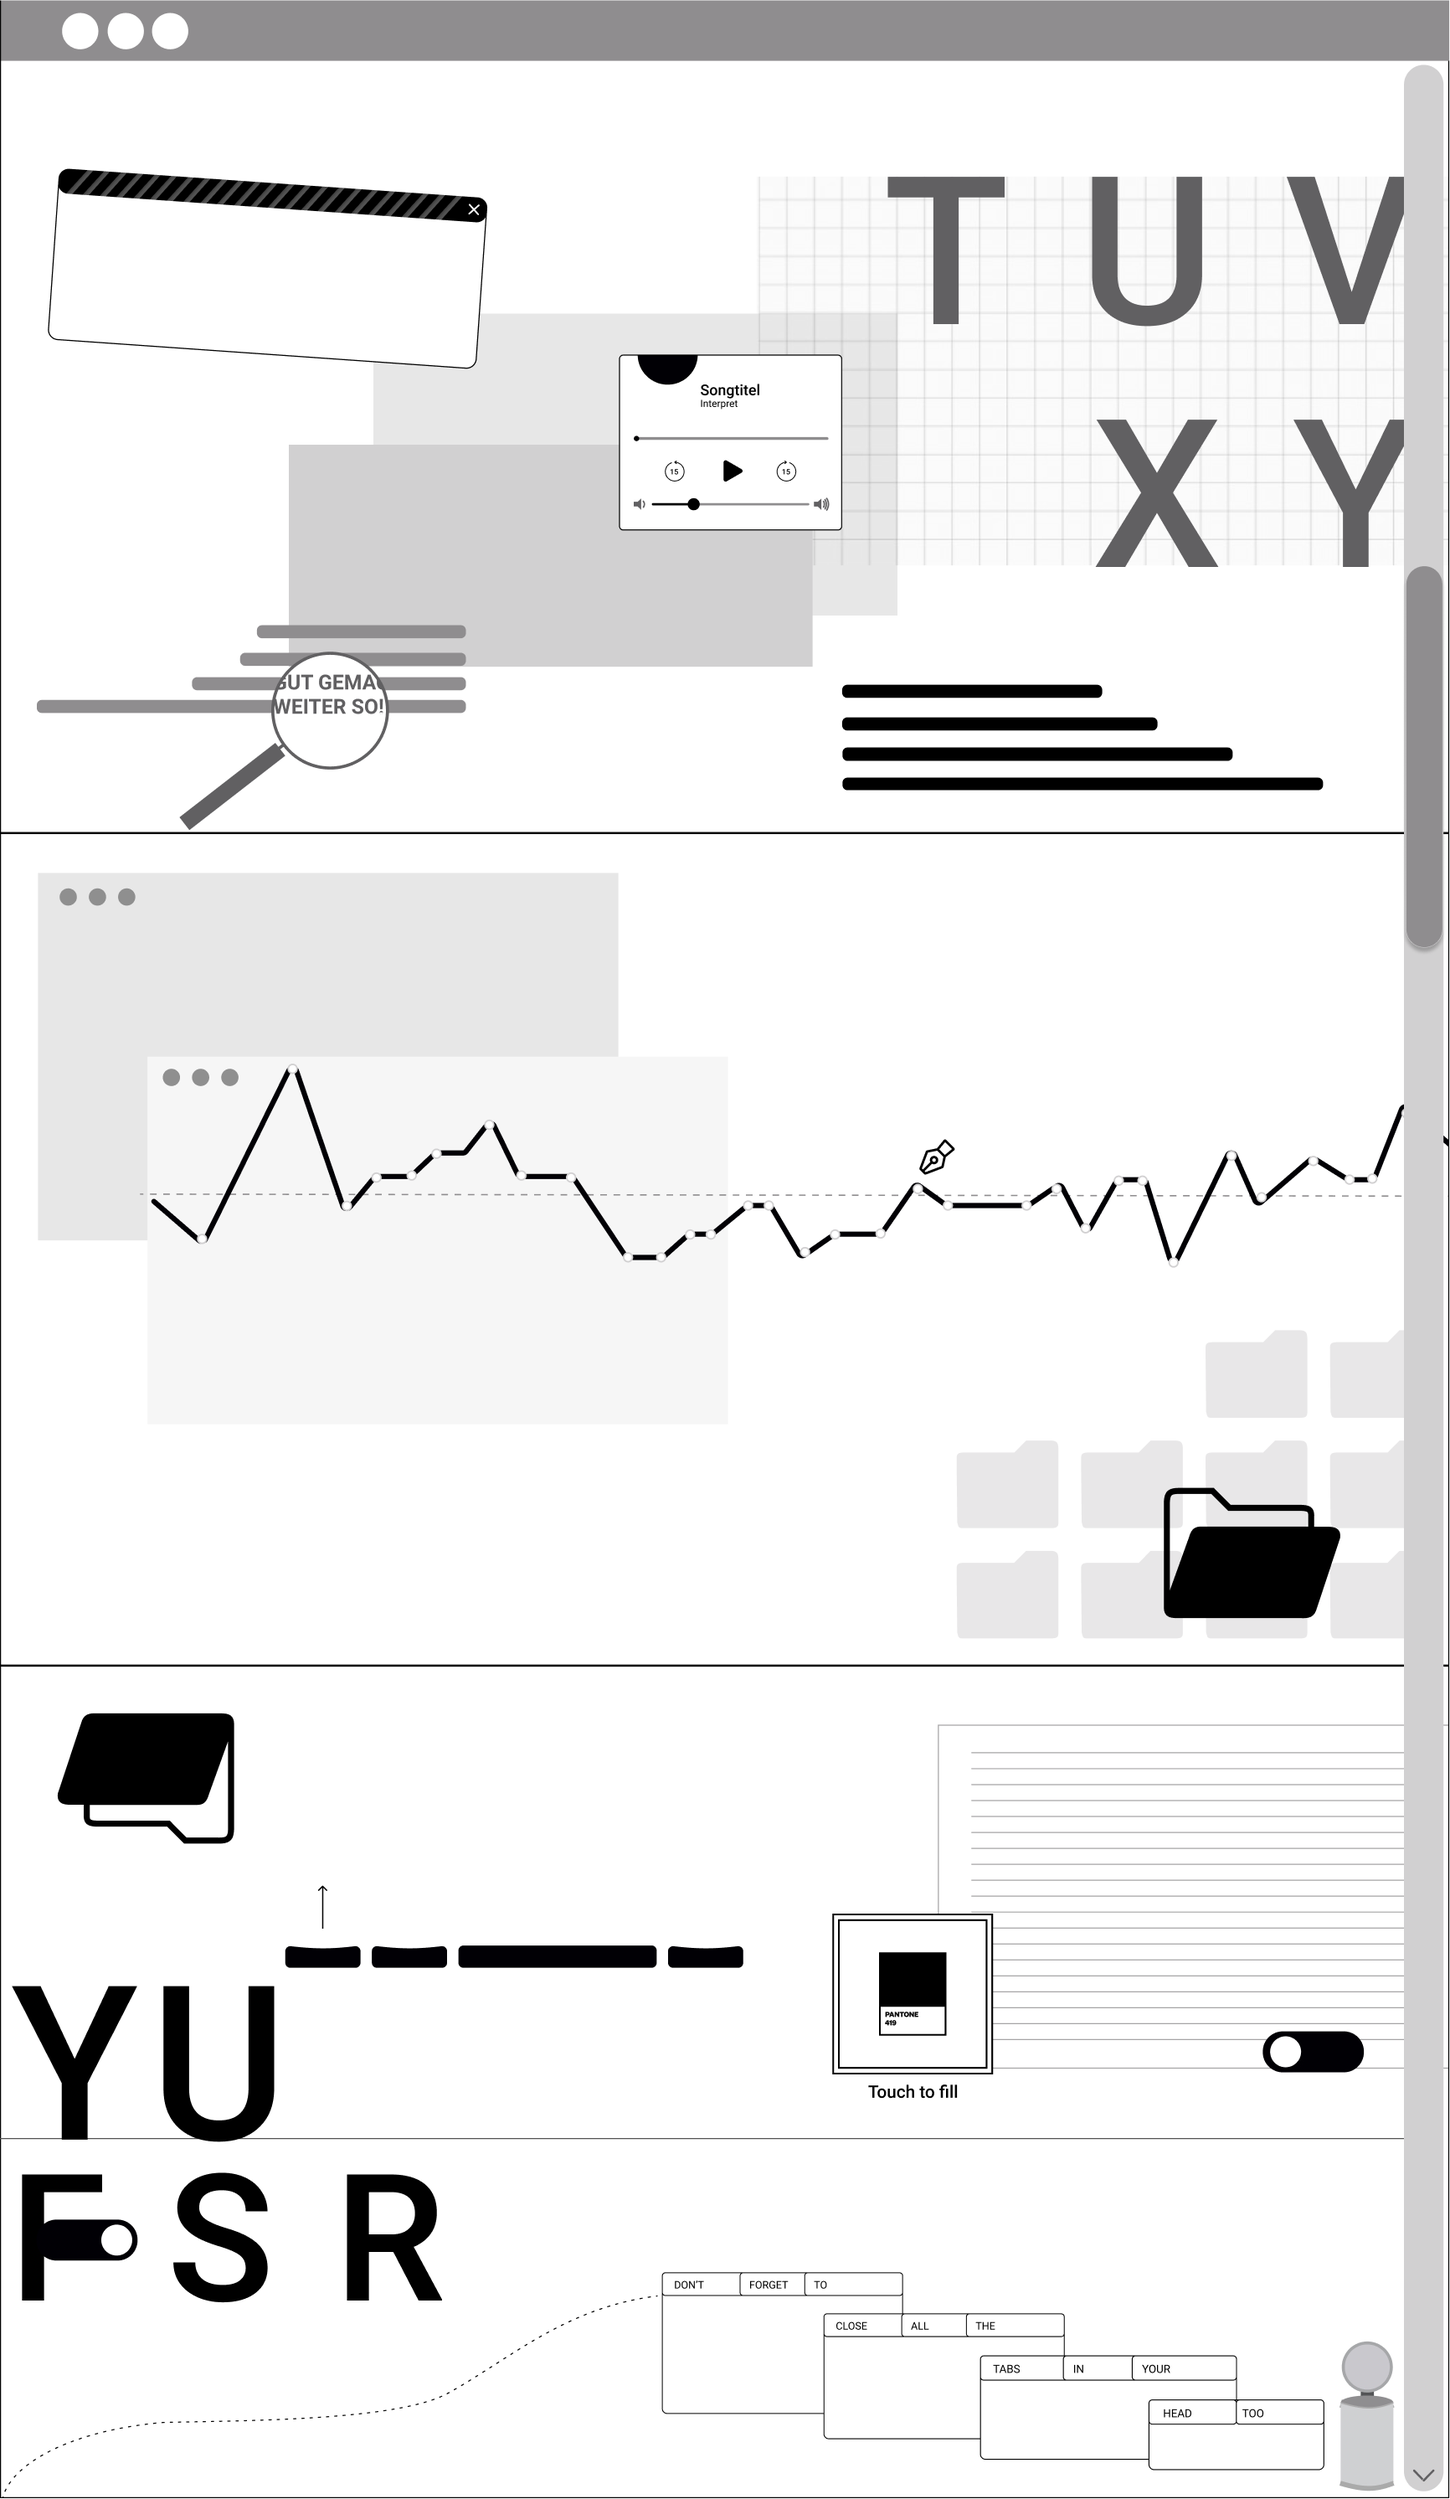
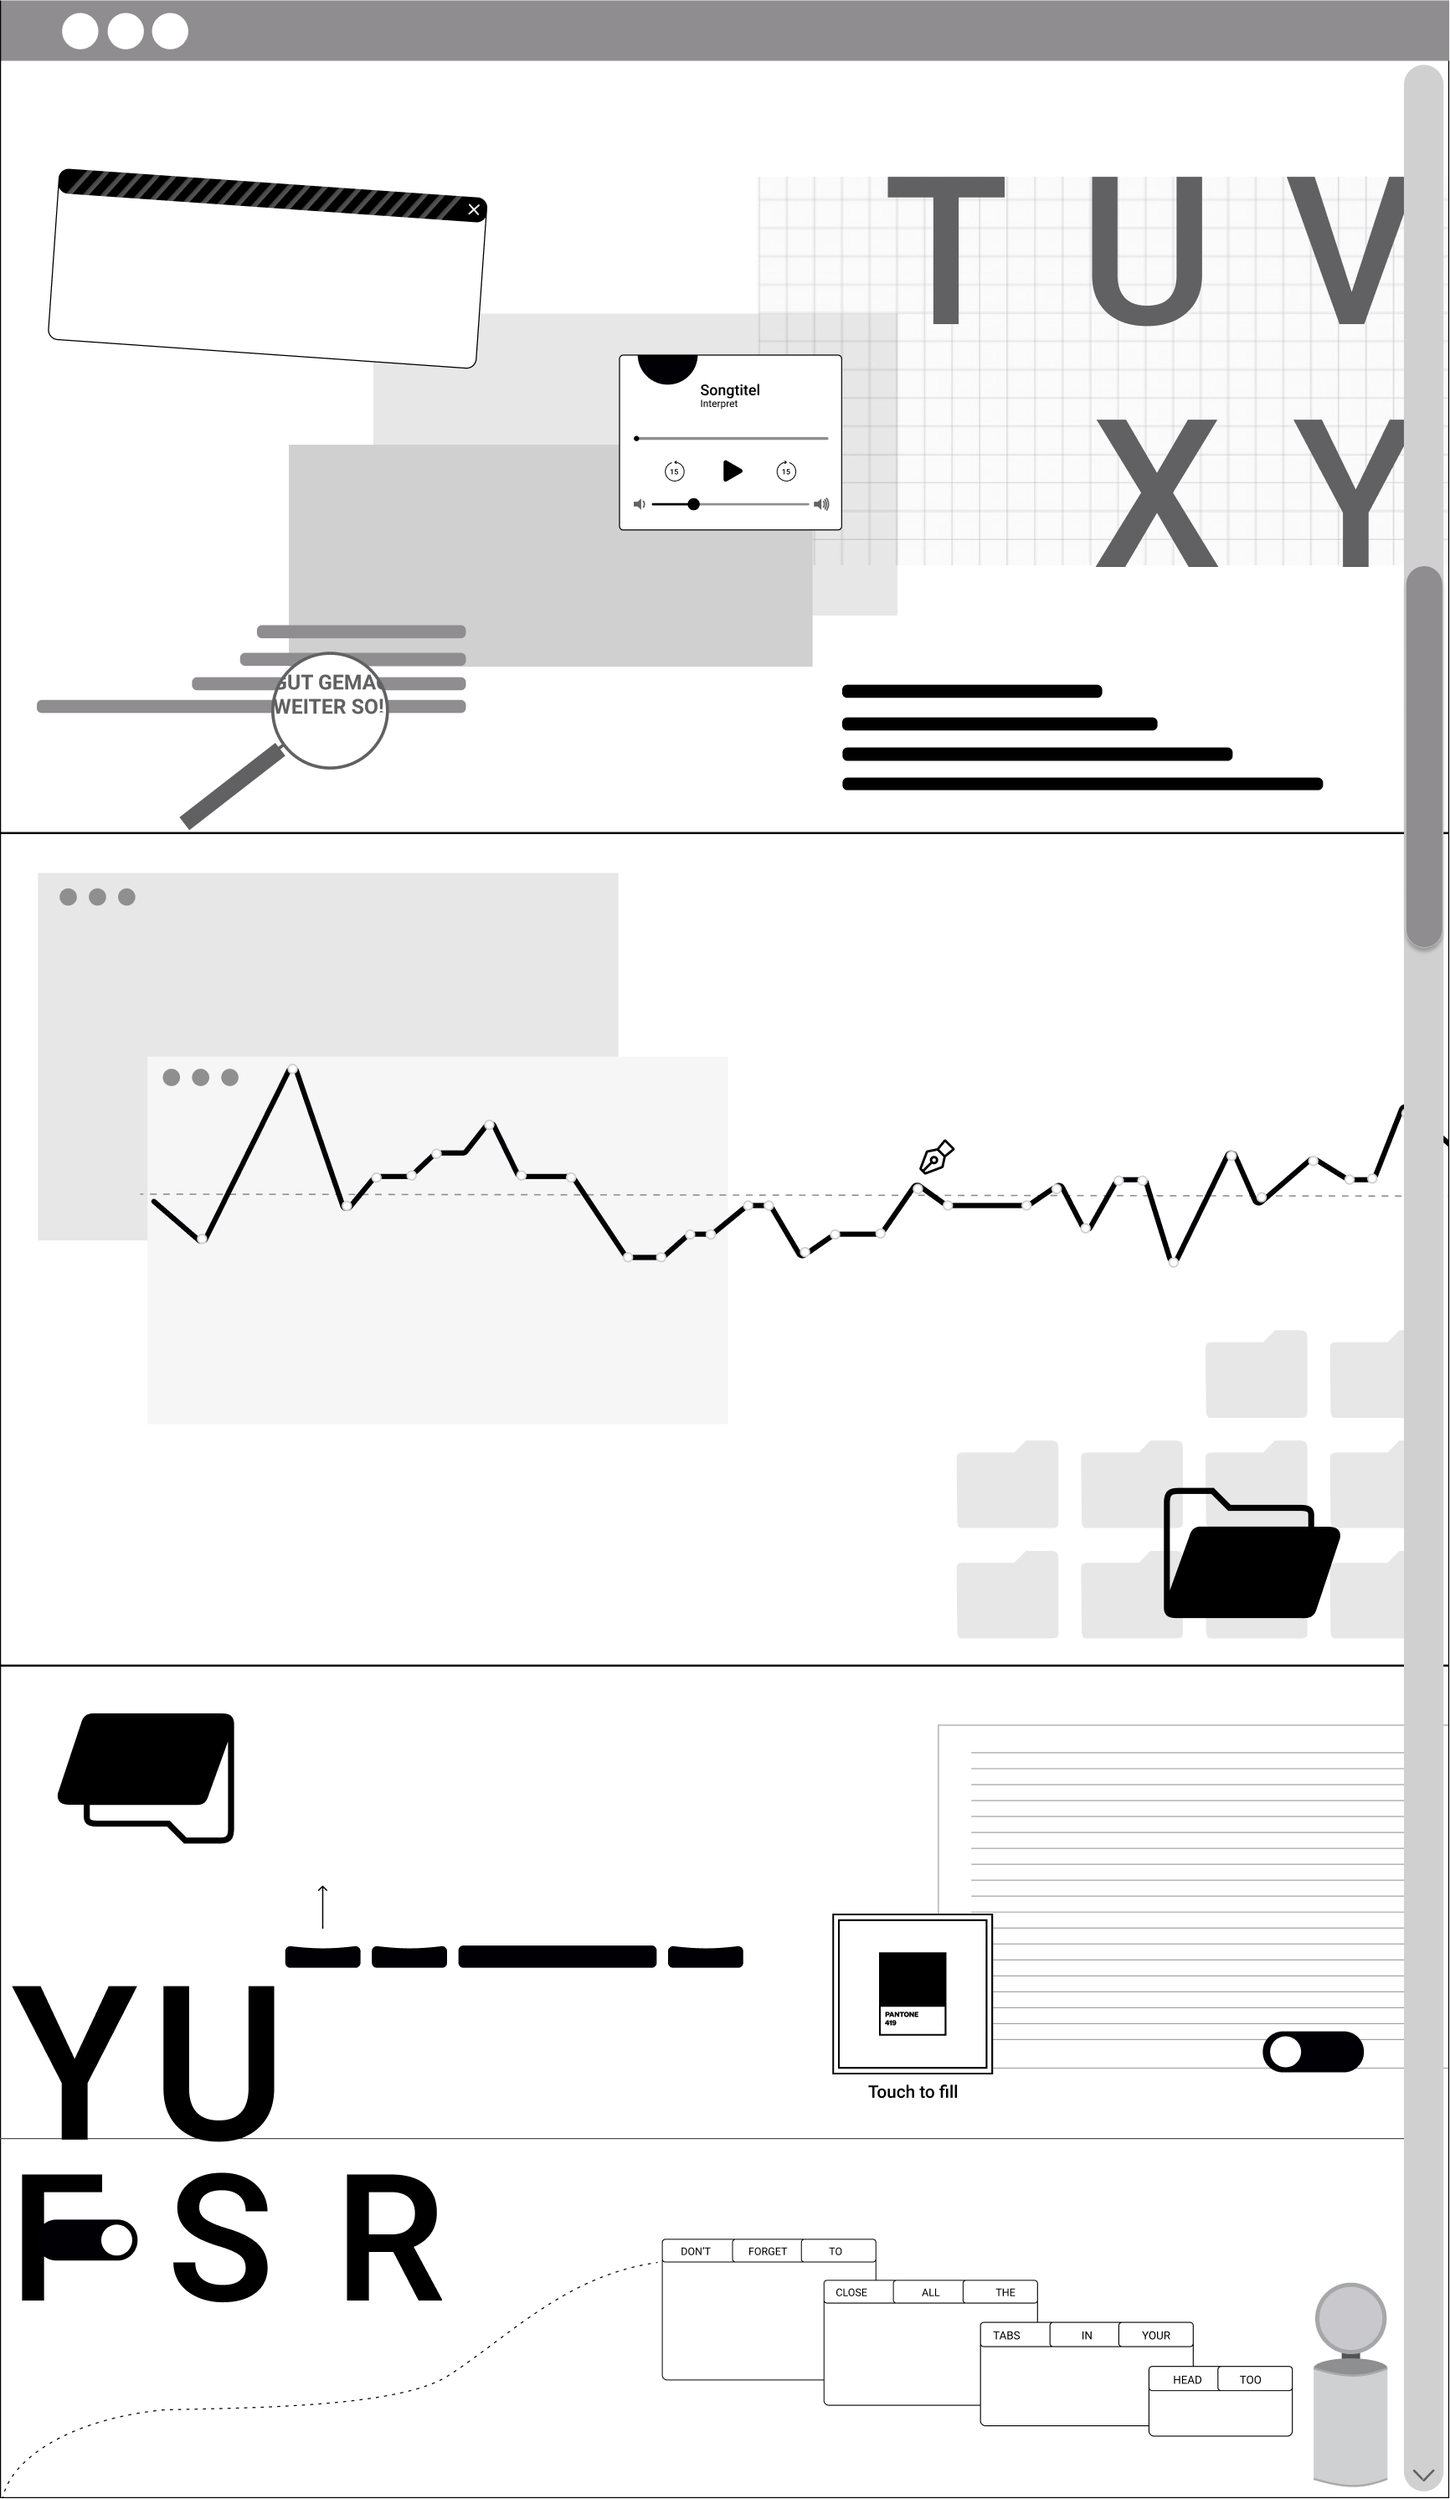
Kästen

Changed region(s): [[0.4988, 0.9038, 0.7483, 0.9662], [0.9042, 0.9038, 0.9665, 0.9973], [0.7794, 0.935, 0.873, 0.9662]]

diff --git a/sketch.js b/sketch.js
@@ -156,29 +156,29 @@ function setupMatter(svgPathElement1, svgPathElement2, svgPathElement3, svgPathE
 
 
   //KÄSTEN
-  kasten = Bodies.rectangle(285, 824, 87, 3, {
+  kasten = Bodies.rectangle(278, 812, 80, 3, {
     restitution: 0,
     isStatic: true
   });
 
-  kasten2 = Bodies.rectangle(342, 838, 87, 3, {
+  kasten2 = Bodies.rectangle(338, 825, 80, 3, {
     restitution: 0,
     isStatic: true
   });
 
-  kasten3 = Bodies.rectangle(400, 854, 87, 3, {
+  kasten3 = Bodies.rectangle(393, 842, 80, 3, {
     restitution: 0,
     isStatic: true
   });
 
-  kasten4 = Bodies.rectangle(449, 870, 65, 3, {
+  kasten4 = Bodies.rectangle(449, 857, 45, 3, {
     restitution: 0,
     isStatic: true
   });
 
   //WINKEL
 
-  winkelk = Bodies.rectangle(328.5, 805, 3, 40, {
+  /* winkelk = Bodies.rectangle(328.5, 805, 3, 40, {
     restitution: 0,
     isStatic: true,
     label: 'winkelk'
@@ -194,7 +194,7 @@ function setupMatter(svgPathElement1, svgPathElement2, svgPathElement3, svgPathE
     restitution: 0,
     isStatic: true,
     label: 'winkelk3'
-  });
+  }); */
 
 
 
@@ -477,11 +477,8 @@ function setupMatter(svgPathElement1, svgPathElement2, svgPathElement3, svgPathE
 
 
 
-  World.add(engine.world, [ball, treppe1, treppe2, treppe3, treppe4, soundfeld, propeller, propeller2, popup, ground, ground2, seiter, seitel, winkel, herzkurve, yu, strichlinie, ordner1, ordner2, tastatur1, tastatur2, tastatur3, tastatur4, portal, portal2, ground3, ground4, pantonekl, pantone, abgrenzungordner1, abgrenzungordner2, decke, mauszeiger, abgrenzungtoogel1, abgrenzungtoogel2, kasten, kasten2, kasten3, kasten4, mülleimer, mülleimer2, mülleimer3, winkelk, winkelk2, winkelk3]);
+  World.add(engine.world, [ball, treppe1, treppe2, treppe3, treppe4, soundfeld, propeller, propeller2, popup, ground, ground2, seiter, seitel, winkel, herzkurve, yu, strichlinie, ordner1, ordner2, tastatur1, tastatur2, tastatur3, tastatur4, portal, portal2, ground3, ground4, pantonekl, pantone, abgrenzungordner1, abgrenzungordner2, decke, mauszeiger, abgrenzungtoogel1, abgrenzungtoogel2, kasten, kasten2, kasten3, kasten4, mülleimer, mülleimer2, mülleimer3 /* winkelk, winkelk2, winkelk3 */]);
 
-
-
-  World.add(engine.world, [ball, treppe1, treppe2, treppe3, treppe4, soundfeld, propeller, propeller2, popup, ground, ground2, seiter, seitel, winkel, herzkurve, yu, strichlinie, ordner1, ordner2, tastatur1, tastatur2, tastatur3, tastatur4, portal, portal2, ground3, ground4, pantonekl, pantone, abgrenzungordner1, abgrenzungordner2, decke, mauszeiger, abgrenzungtoogel1, abgrenzungtoogel2, kasten, kasten2, kasten3, kasten4 /* winkelk, winkelk2, winkelk3, */ /* kastenweiß */]);
 
 
   Engine.run(engine);
